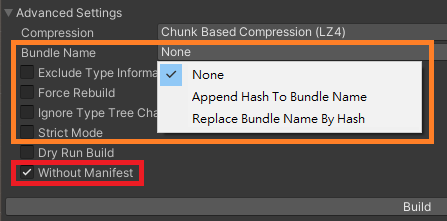
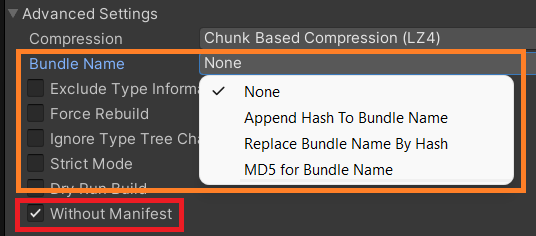
added md5 for bundle name in extd options

diff --git a/Editor/AssetBundleBuildTab.cs b/Editor/AssetBundleBuildTab.cs
@@ -4,7 +4,7 @@ using System.Collections.Generic;
 using System.IO;
 using System.Runtime.Serialization.Formatters.Binary;
 using AssetBundleBrowser.AssetBundleDataSource;
-using System.Linq;
+using AssetBundleBrowser.Utilities;
 
 namespace AssetBundleBrowser
 {
@@ -78,14 +78,16 @@ namespace AssetBundleBrowser
         {
             None,
             AppendHash,
-            ReplaceByHash
+            ReplaceByHash,
+            Md5ForName
         }
         GUIContent[] m_BundleNameOptions = {
             new GUIContent("None"),
             new GUIContent("Append Hash To Bundle Name"),
-            new GUIContent("Replace Bundle Name By Hash")
+            new GUIContent("Replace Bundle Name By Hash"),
+            new GUIContent("MD5 for Bundle Name")
         };
-        int[] m_BundleNameValues = { 0, 1, 2 };
+        int[] m_BundleNameValues = { 0, 1, 2, 3 };
 
         internal AssetBundleBuildTab()
         {
@@ -185,7 +187,7 @@ namespace AssetBundleBrowser
 
             m_TargetContent = new GUIContent("Build Target", "Choose target platform to build for.");
             m_CompressionContent = new GUIContent("Compression", "Choose no compress, standard (LZMA), or chunk based (LZ4)");
-            m_BundleNameContent = new GUIContent("Bundle Name", "Choose none, append hash, or replace by hash");
+            m_BundleNameContent = new GUIContent("Bundle Name", "Choose none, append hash, replace by hash, or md5 for bundle name");
 
             if (m_UserData.m_UseDefaultPath)
             {
@@ -399,6 +401,8 @@ namespace AssetBundleBrowser
                     opt |= BuildAssetBundleOptions.AppendHashToAssetBundleName;
                 else if (m_UserData.m_BundleNameOption == BundleNameOptions.ReplaceByHash)
                     extdOpt |= ExtendBuildAssetBundleOptions.ReplaceByHash;
+                else if (m_UserData.m_BundleNameOption == BundleNameOptions.Md5ForName)
+                    extdOpt |= ExtendBuildAssetBundleOptions.Md5ForBundleName;
 
                 // toggle options
                 foreach (var tog in m_ToggleData)
@@ -514,7 +518,7 @@ namespace AssetBundleBrowser
         }
 
         /// <summary>
-        /// Repace bundle name by hash (read hash from manifest to replace)
+        /// Replace bundle name by hash (read hash from manifest to replace)
         /// </summary>
         /// <param name="outputDirectory"></param>
         internal static bool ReplaceBundleNameByHash(string outputDirectory)
@@ -557,9 +561,54 @@ namespace AssetBundleBrowser
                     // skip process manifest & .manifest extension
                     if (bundleName.IndexOf(manifestName) != -1 || file.IndexOf(".manifest") != -1) continue;
 
+                    // file name (without extension)
                     string fileName = Path.GetFileNameWithoutExtension(file);
+                    // get hash from manifest
                     string hash = manifest.GetAssetBundleHash(bundleName).ToString();
+                    // replace it be new file
                     string newFile = file.Replace(fileName, hash);
+                    // copy override
+                    if (File.Exists(file)) File.Move(file, newFile);
+                }
+            }
+            catch
+            {
+                return false;
+            }
+
+            return true;
+        }
+
+        /// <summary>
+        /// Make md5 by bundle file name and to replace it
+        /// </summary>
+        /// <returns></returns>
+        internal static bool Md5ForBundleName(string outputDirectory)
+        {
+            // outputDirectory last path name = manifestName
+            var firstIdx = outputDirectory.LastIndexOf("\\") == -1 ? outputDirectory.LastIndexOf("/") : outputDirectory.LastIndexOf("\\");
+            string manifestName = outputDirectory.Substring(firstIdx + 1, outputDirectory.Length - firstIdx - 1);
+
+            // search from all file to find menifest
+            string[] files = Directory.GetFiles(outputDirectory, "*.*", SearchOption.AllDirectories);
+
+            try
+            {
+                // replace all bundle file name by hash
+                foreach (var file in files)
+                {
+                    string bundleName = file.Replace(outputDirectory, string.Empty);
+                    bundleName = bundleName.Substring(1, bundleName.Length - 1);
+                    // skip process manifest & .manifest extension
+                    if (bundleName.IndexOf(manifestName) != -1 || file.IndexOf(".manifest") != -1) continue;
+
+                    // file name (without extension)
+                    string fileName = Path.GetFileNameWithoutExtension(file);
+                    // make a md5 by file name
+                    string md5 = BundleUtility.MakeMd5ForString(fileName);
+                    // replace it be new file
+                    string newFile = file.Replace(fileName, md5);
+                    // copy override
                     if (File.Exists(file)) File.Move(file, newFile);
                 }
             }

diff --git a/Editor/LevenshteinDistance.cs b/Editor/LevenshteinDistance.cs
@@ -1,88 +1,91 @@
-using System;
+using System;
 
-public static class LevenshteinDistance
+namespace AssetBundleBrowser.Utilities
 {
-    /// <summary>
-    /// Get smaller num
-    /// </summary>
-    /// <param name="first"></param>
-    /// <param name="second"></param>
-    /// <param name="third"></param>
-    /// <returns></returns>
-    private static int _LowerOfThree(int first, int second, int third)
+    public static class LevenshteinDistance
     {
-        int min = Math.Min(first, second);
-        return Math.Min(min, third);
-    }
-
-    /// <summary>
-    /// Caculate similar string return int [Levenshtein distance algorithm]
-    /// </summary>
-    /// <param name="str1"></param>
-    /// <param name="str2"></param>
-    /// <returns></returns>
-    public static int LevenshteinDistanceInt(string str1, string str2)
-    {
-        int[,] Matrix;
-        int n = str1.Length;
-        int m = str2.Length;
-
-        int temp, i, j;
-        char ch1;
-        char ch2;
-        if (n == 0)
+        /// <summary>
+        /// Get smaller num
+        /// </summary>
+        /// <param name="first"></param>
+        /// <param name="second"></param>
+        /// <param name="third"></param>
+        /// <returns></returns>
+        private static int _LowerOfThree(int first, int second, int third)
         {
-            return m;
-        }
-        if (m == 0)
-        {
-
-            return n;
-        }
-        Matrix = new int[n + 1, m + 1];
-
-        for (i = 0; i <= n; i++)
-        {
-            // init first row
-            Matrix[i, 0] = i;
+            int min = Math.Min(first, second);
+            return Math.Min(min, third);
         }
 
-        for (j = 0; j <= m; j++)
+        /// <summary>
+        /// Caculate similar string return int [Levenshtein distance algorithm]
+        /// </summary>
+        /// <param name="str1"></param>
+        /// <param name="str2"></param>
+        /// <returns></returns>
+        public static int LevenshteinDistanceInt(string str1, string str2)
         {
-            // init first column
-            Matrix[0, j] = j;
-        }
+            int[,] Matrix;
+            int n = str1.Length;
+            int m = str2.Length;
 
-        for (i = 1; i <= n; i++)
-        {
-            ch1 = str1[i - 1];
-            for (j = 1; j <= m; j++)
+            int temp, i, j;
+            char ch1;
+            char ch2;
+            if (n == 0)
             {
-                ch2 = str2[j - 1];
-                if (ch1.Equals(ch2))
-                {
-                    temp = 0;
-                }
-                else
-                {
-                    temp = 1;
-                }
-                Matrix[i, j] = _LowerOfThree(Matrix[i - 1, j] + 1, Matrix[i, j - 1] + 1, Matrix[i - 1, j - 1] + temp);
+                return m;
             }
+            if (m == 0)
+            {
+
+                return n;
+            }
+            Matrix = new int[n + 1, m + 1];
+
+            for (i = 0; i <= n; i++)
+            {
+                // init first row
+                Matrix[i, 0] = i;
+            }
+
+            for (j = 0; j <= m; j++)
+            {
+                // init first column
+                Matrix[0, j] = j;
+            }
+
+            for (i = 1; i <= n; i++)
+            {
+                ch1 = str1[i - 1];
+                for (j = 1; j <= m; j++)
+                {
+                    ch2 = str2[j - 1];
+                    if (ch1.Equals(ch2))
+                    {
+                        temp = 0;
+                    }
+                    else
+                    {
+                        temp = 1;
+                    }
+                    Matrix[i, j] = _LowerOfThree(Matrix[i - 1, j] + 1, Matrix[i, j - 1] + 1, Matrix[i - 1, j - 1] + temp);
+                }
+            }
+
+            return Matrix[n, m];
         }
 
-        return Matrix[n, m];
-    }
-
-    /// <summary>
-    /// Caculate similar string return decimal (Percent) [Levenshtein distance algorithm]
-    /// </summary>
-    /// <param name="str1"></param>
-    /// <param name="str2"></param>
-    /// <returns></returns>
-    public static decimal LevenshteinDistanceDecimal(string str1, string str2)
-    {
-        int val = LevenshteinDistanceInt(str1, str2);
-        return 1 - (decimal)val / Math.Max(str1.Length, str2.Length);
+        /// <summary>
+        /// Caculate similar string return decimal (Percent) [Levenshtein distance algorithm]
+        /// </summary>
+        /// <param name="str1"></param>
+        /// <param name="str2"></param>
+        /// <returns></returns>
+        public static decimal LevenshteinDistanceDecimal(string str1, string str2)
+        {
+            int val = LevenshteinDistanceInt(str1, str2);
+            return 1 - (decimal)val / Math.Max(str1.Length, str2.Length);
+        }
     }
 }

diff --git a/Editor/BundleBuildMap.cs b/Editor/BundleBuildMap.cs
@@ -1,4 +1,5 @@
 using AssetBundleBrowser.AssetBundleModel;
+using AssetBundleBrowser.Utilities;
 using System;
 using System.Collections.Generic;
 using System.IO;
@@ -546,10 +547,11 @@ namespace AssetBundleBrowser.AssetBundleDataSource
         {
             if (!Directory.Exists(outputDirectory)) Directory.CreateDirectory(outputDirectory);
 
-            // if use replaceByHash must remove AppendHashToAssetBundleName option (priority)
-            if (Convert.ToBoolean(extdOptions & ExtendBuildAssetBundleOptions.ReplaceByHash))
+            // check condition to remove AppendHashToAssetBundleName option (priority)
+            if (Convert.ToBoolean(options & BuildAssetBundleOptions.AppendHashToAssetBundleName))
             {
-                if (Convert.ToBoolean(options & BuildAssetBundleOptions.AppendHashToAssetBundleName))
+                if (Convert.ToBoolean(extdOptions & ExtendBuildAssetBundleOptions.ReplaceByHash) ||
+                    Convert.ToBoolean(extdOptions & ExtendBuildAssetBundleOptions.Md5ForBundleName))
                 {
                     options ^= BuildAssetBundleOptions.AppendHashToAssetBundleName;
                 }
@@ -576,6 +578,14 @@ namespace AssetBundleBrowser.AssetBundleDataSource
                 bool completes = AssetBundleBuildTab.ReplaceBundleNameByHash(outputDirectory);
                 if (!completes) Debug.Log("<color=#FF0000>Error in process replace by hash.</color>");
                 else Debug.Log($"<color=#60ffb0>Replace all bundle name by hash completes.</color>");
+            }
+
+            // after build (md5 for bundle name)
+            if (Convert.ToBoolean(extdOptions & ExtendBuildAssetBundleOptions.Md5ForBundleName))
+            {
+                bool completes = AssetBundleBuildTab.Md5ForBundleName(outputDirectory);
+                if (!completes) Debug.Log("<color=#FF0000>Error in process MD5 for bundle name.</color>");
+                else Debug.Log($"<color=#60ffb0>Replace all bundle name by MD5.</color>");
             }
 
             if (onBuild != null)

diff --git a/Editor/BundleUtility.cs b/Editor/BundleUtility.cs
@@ -1,0 +1,33 @@
+using System;
+using System.Text;
+
+namespace AssetBundleBrowser.Utilities
+{
+    public static class BundleUtility
+    {
+        /// <summary>
+        /// Make MD5 for string
+        /// </summary>
+        /// <param name="str"></param>
+        /// <returns></returns>
+        public static string MakeMd5ForString(string str, bool uppercase = false)
+        {
+            using (var createMd5 = System.Security.Cryptography.MD5.Create())
+            {
+                // get string bytes
+                byte[] bytes = Encoding.UTF8.GetBytes(str);
+
+                // get hash from bytes
+                byte[] hashBytes = createMd5.ComputeHash(bytes);
+
+                // make a MD5
+                string md5 = BitConverter.ToString(hashBytes).Replace("-", string.Empty);
+
+                if (uppercase) md5 = md5.ToUpper();
+                else md5 = md5.ToLower();
+
+                return md5;
+            }
+        }
+    }
+}

diff --git a/Editor/ExtendBuildAssetBundleOptions.cs b/Editor/ExtendBuildAssetBundleOptions.cs
@@ -5,5 +5,6 @@
         None = 0x0,
         WithoutManifest = 0x1,
         ReplaceByHash = 0x2,
+        Md5ForBundleName = 0x4
     }
 }

diff --git a/README.md b/README.md
@@ -69,7 +69,9 @@ When enabled sync feature can sync asset data to other BuildMap <font color=#FF0
     // including extend options
     ExtendBuildAssetBundleOptions extdOptions = ExtendBuildAssetBundleOptions.None;
     extdOptions |= ExtendBuildAssetBundleOptions.WithoutManifest;
-    extdOptions |= ExtendBuildAssetBundleOptions.ReplaceByHash;
+    // choose one [ReplaceByHash] or [Md5ForBundleName]
+    // extdOptions |= ExtendBuildAssetBundleOptions.ReplaceByHash;
+    // extdOptions |= ExtendBuildAssetBundleOptions.Md5ForBundleName
     BundleBuildMap.BuildAssetBundles(outputDirectory, bundleBuildMap.GetBuildMap(), options, target, extdOptions, null);
 ```
 

diff --git a/CHANGELOG.md b/CHANGELOG.md
@@ -1,5 +1,10 @@
 # Changelog (unofficial)
 
+## [1.8.0] - 2022-10-15
+- Added BundleUtility for common methods, can find BundleUtility.MakeMd5ForString method when using AssetBundleBrowser.Utilities.
+- Added MD5 for bundle name option into ExtendBuildAssetBundleOptions (make a md5 by bundle name to replace it).
+- Modified set AssetBundleBrowser.Utilities namespace for LevenshteinDistance class.
+
 ## [1.7.0] - 2022-10-12
 - Added ExtendBuildAssetBundleOptions for Advenced Settings (most convenient).
 - Modified BuildAssetBundles method in BundleBuildMap (changed extend options param).
